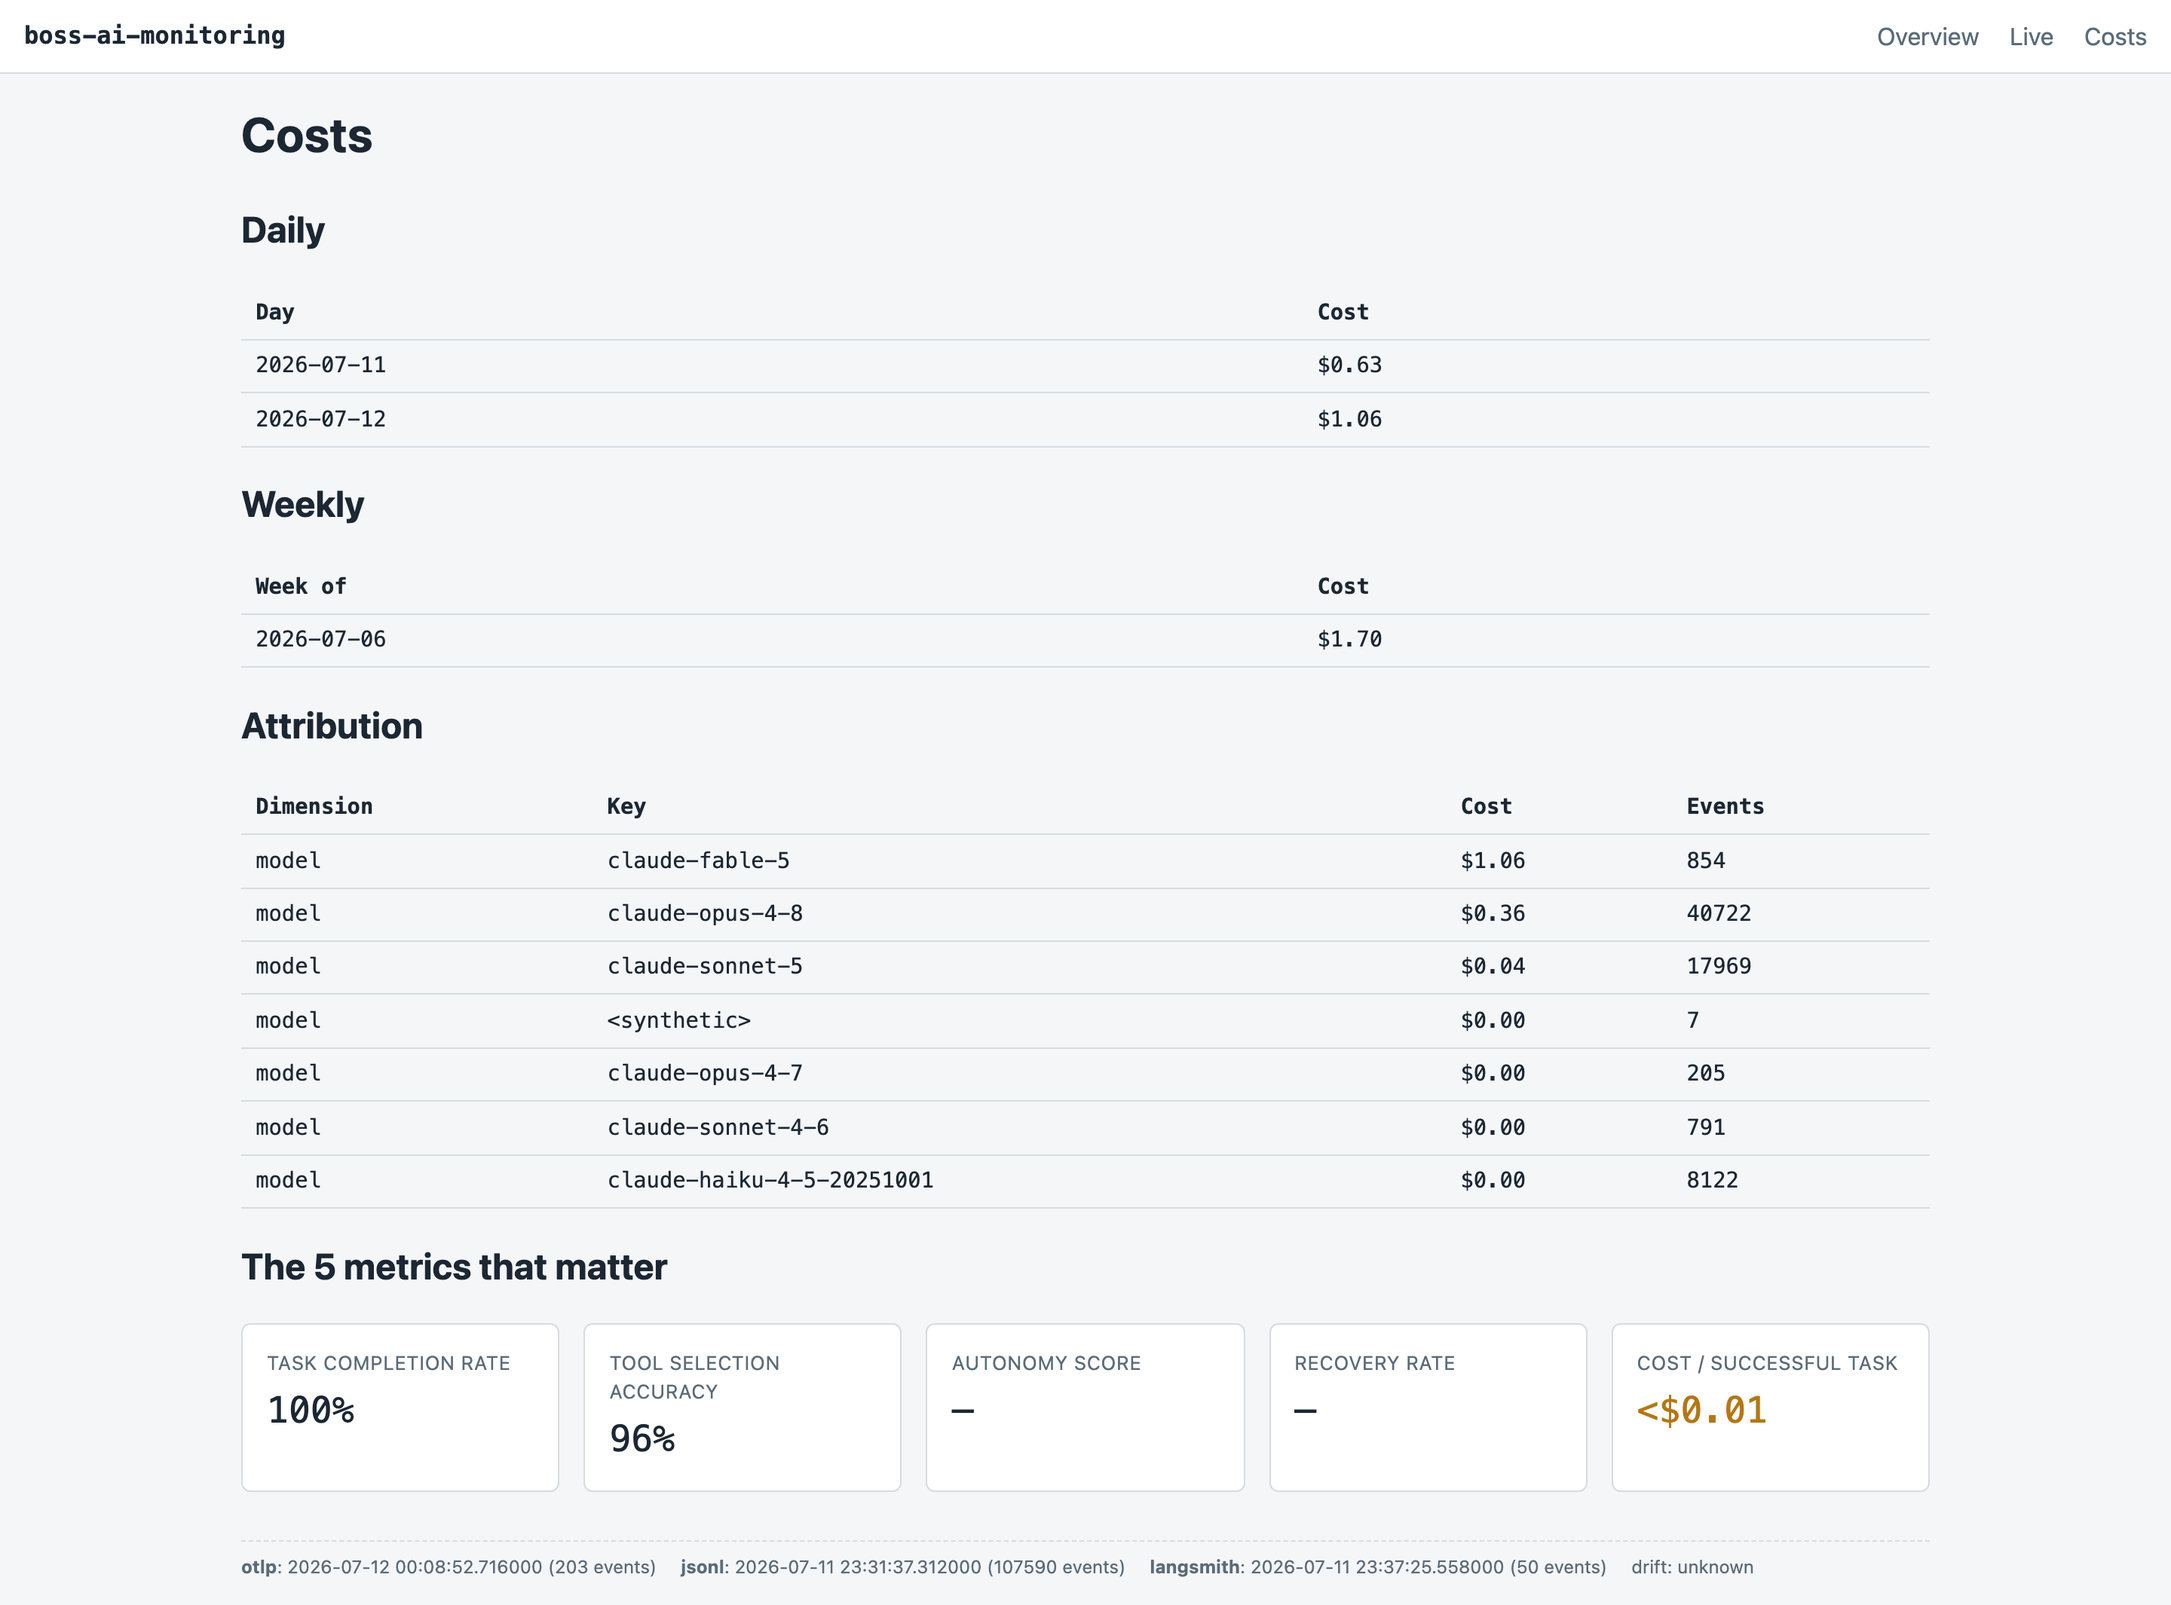
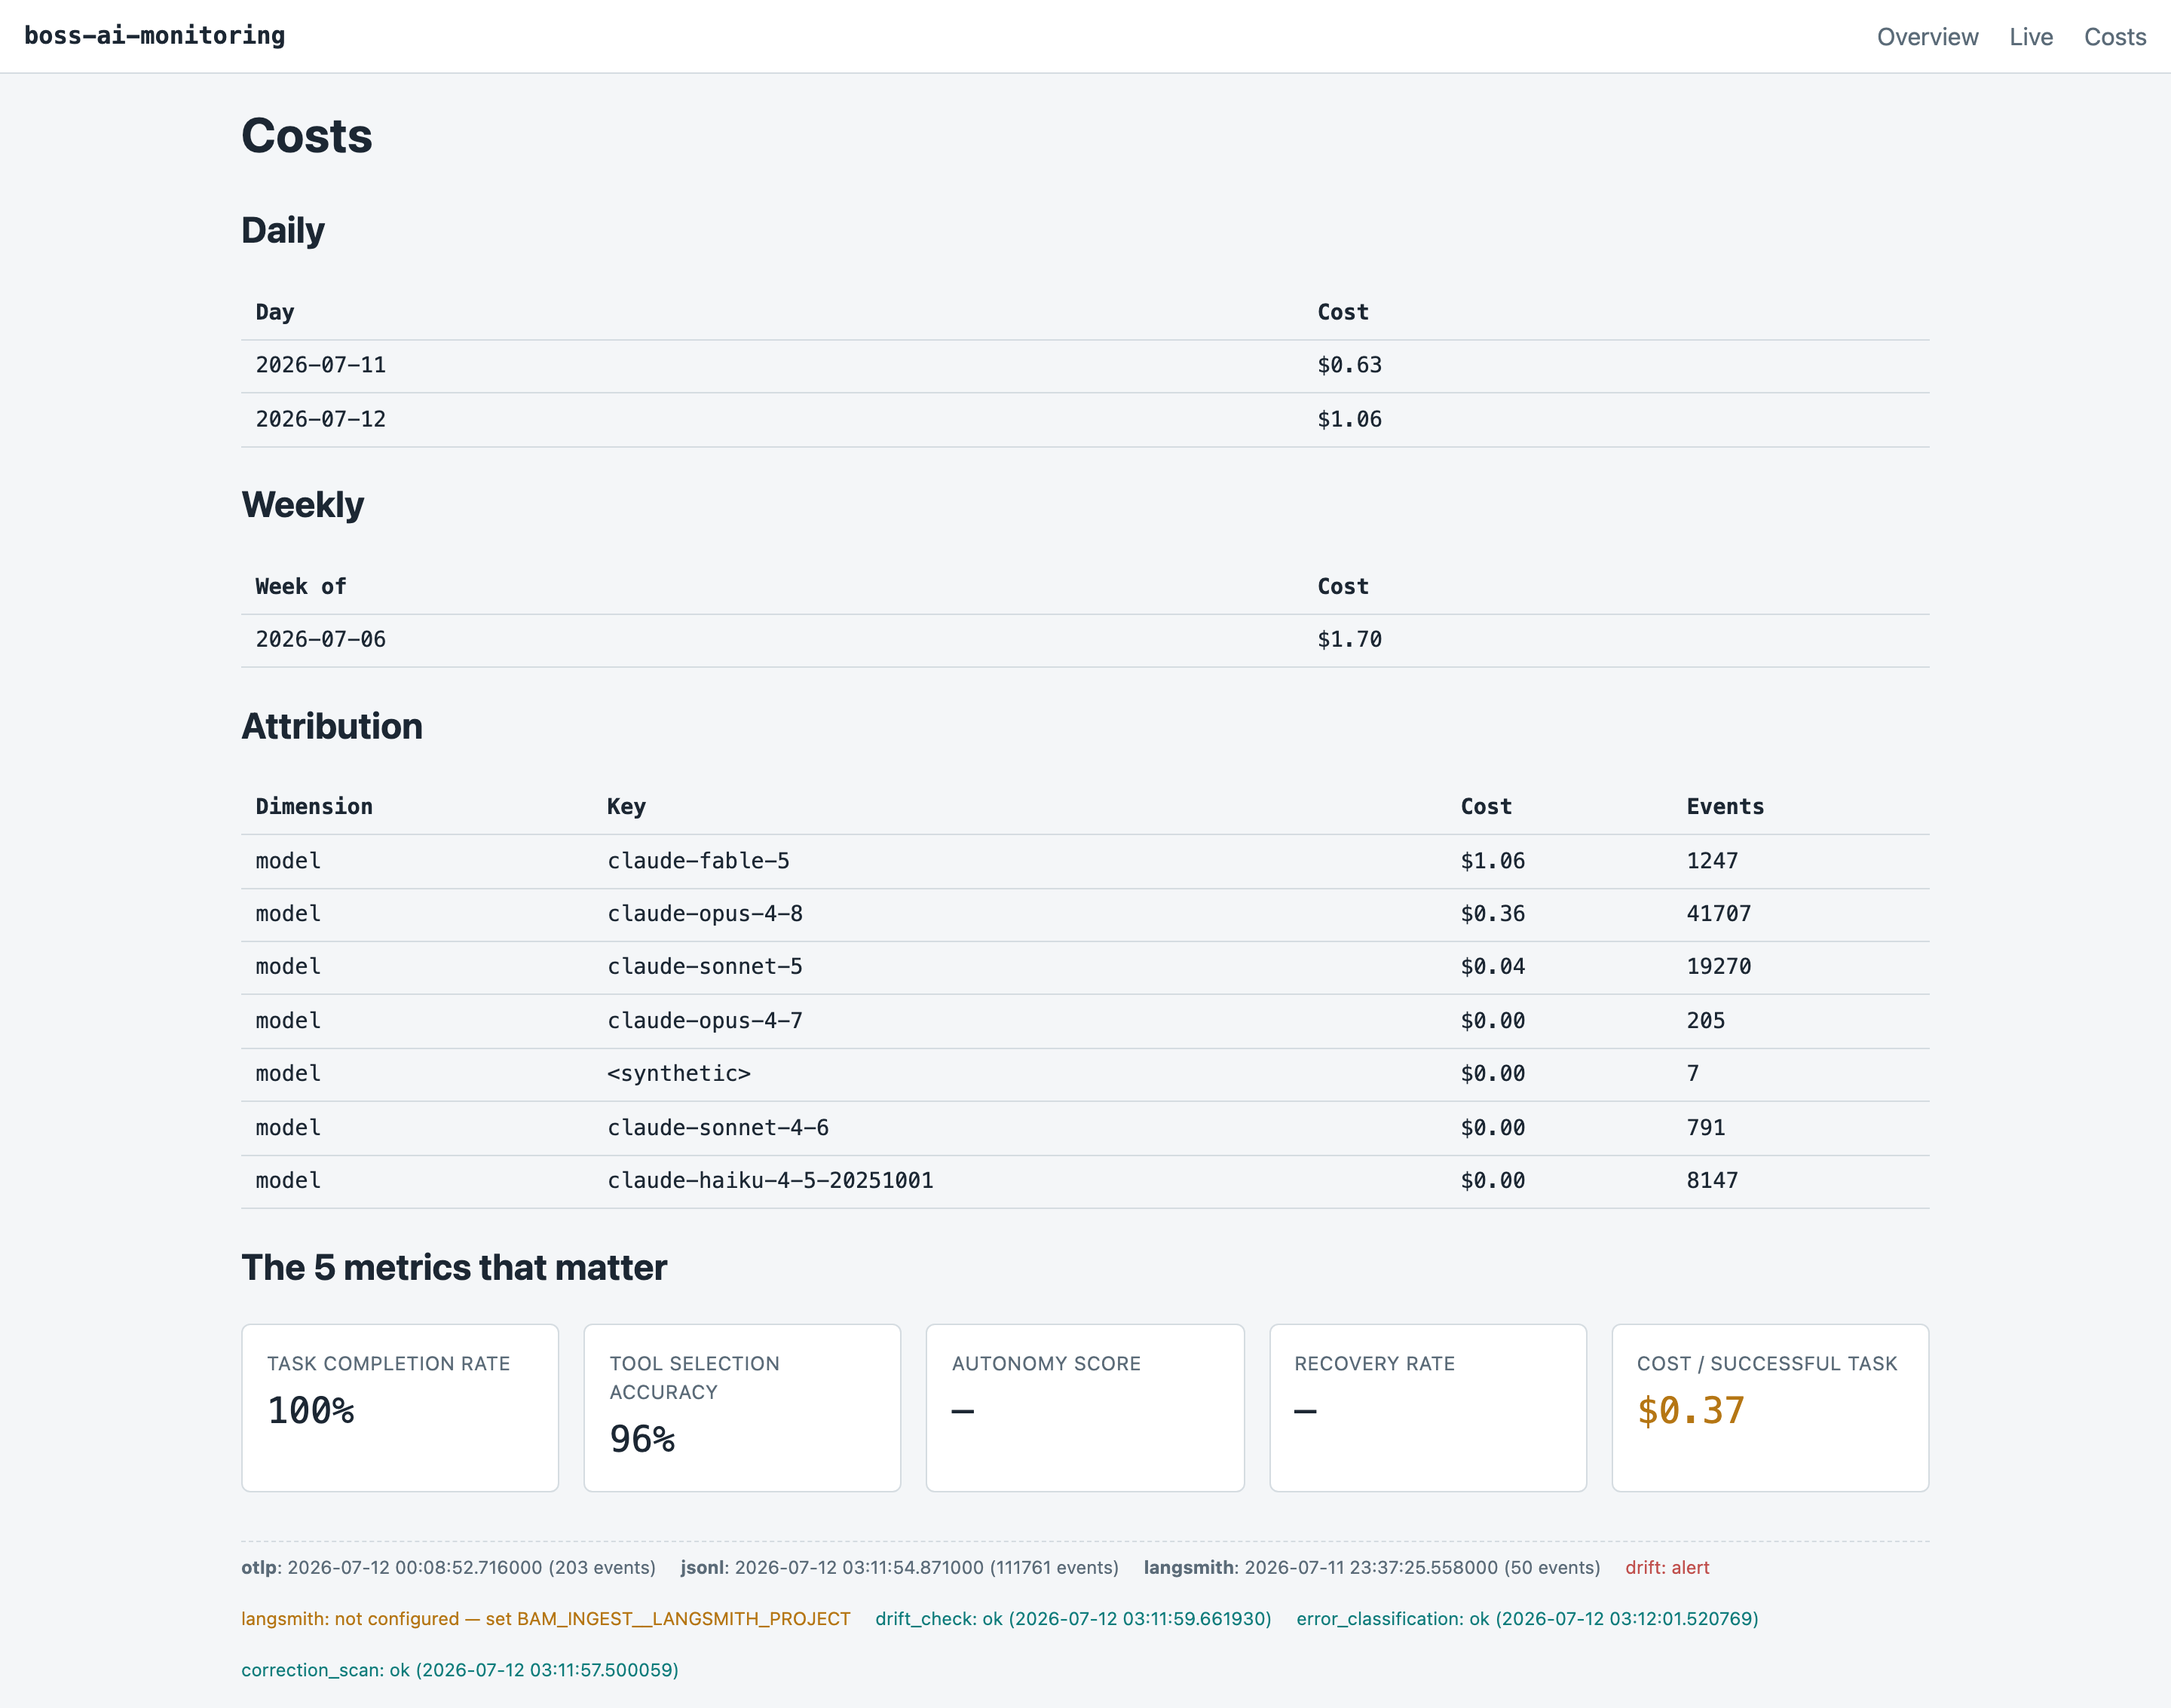
docs(readme): sell the repo on its own evidence
Hero pitch + CI/stack badges + full-width overview shot; 2x2 screenshot
gallery linked to PROOF.md; 'a monitoring tool that never lies to you' as the
through-line (provenance footers, em-dash over invented numbers, <$0.01 over
a false $0.00, the loud missing-config badge). All four screenshots re-shot
live against the real database — the overview now shows the new Infra summary
and the langsmith badge. LangSmith setup section now names
BAM_INGEST__LANGSMITH_PROJECT as the key the poller actually reads.

Also: v_infra_events falls back to server_scope for non-plugin MCP
connections — observed live that they carry no name attribute at all.

Claude-Session: https://claude.ai/code/session_01DXQK4NsiARGxpECdVrLir4

diff --git a/tests/unit/store/test_views.py b/tests/unit/store/test_views.py
@@ -781,6 +781,19 @@ def test_v_infra_events_extracts_dotted_payload_keys(conn: Any, make_event: Make
                     "hook_source": "userSettings",
                 },
             ),
+            # observed live 2026-07-12: a NON-plugin MCP connection carries no name attribute
+            # at all — only server_scope. The view must fall back to it, not render NULL.
+            make_event(
+                "i4",
+                ts=T0 + timedelta(minutes=3),
+                event_type="mcp_server_connection",
+                payload={
+                    "status": "connected",
+                    "transport_type": "claudeai-proxy",
+                    "server_scope": "claudeai",
+                    "is_plugin": False,
+                },
+            ),
         ],
     )
 
@@ -793,4 +806,5 @@ def test_v_infra_events_extracts_dotted_payload_keys(conn: Any, make_event: Make
         ("plugin_loaded", "third-party", None, None, None, None),
         ("mcp_server_connection", "telegram", "connected", "stdio", None, 95),
         ("hook_registered", "PreToolUse", None, None, "userSettings", None),
+        ("mcp_server_connection", "claudeai", "connected", "claudeai-proxy", None, None),
     ]

diff --git a/README.md b/README.md
@@ -1,36 +1,58 @@
 # boss-ai-monitoring
 
-A single-user, single-host observability dashboard for [Claude Code](https://claude.com/claude-code)
-usage: cost, tokens by class, tool success rates, session timelines, and quality signals — pulled
-from three sources into one DuckDB file and served as a fast, no-build-step web UI.
+**See what your Claude Code sessions actually cost — live, from three independent sources that
+cross-check each other.**
 
-> **Status: built.** The application code was produced by the multi-agent build run described in
-> [How this gets built](#how-this-gets-built). The full design — phases, schemas, routes, edge
-> cases, and every decided question — remains in the spec:
-> [`specs/boss-ai-monitoring/boss-ai-monitoring.html`](specs/boss-ai-monitoring/boss-ai-monitoring.html).
+[![CI](https://github.com/bossjones/boss-ai-monitoring/actions/workflows/ci.yml/badge.svg)](https://github.com/bossjones/boss-ai-monitoring/actions/workflows/ci.yml)
+![Python 3.13](https://img.shields.io/badge/python-3.13-blue)
+![uv](https://img.shields.io/badge/packaging-uv-de5fe9)
+![DuckDB](https://img.shields.io/badge/store-DuckDB-fff100)
+![no build step](https://img.shields.io/badge/frontend-htmx%2C%20no%20npm-3d72d7)
 
-## What it does
+![Overview dashboard on real data](docs/img/dashboard/overview.png)
 
-- **Ingests three signal sources** into a canonical `events` table:
-  1. **OTLP telemetry** — Claude Code's native OpenTelemetry export (http/json, port 4318,
-     received directly by the app; no collector).
-  2. **JSONL transcripts** — incremental reads of `~/.claude/projects/**/*.jsonl` (mounted
-     read-only), for backfill and gap-fill. JSONL-derived costs are flagged estimates.
-  3. **LangSmith runs** — cursor-based polling of the LangSmith API (rate-limit aware; degrades
-     gracefully without an API key).
-- **Stores everything in one DuckDB file** — canonical event envelope with a JSON `payload`
-  column, batched idempotent writer, single write connection.
-- **Serves a dashboard** (FastAPI + Jinja2 + htmx + SSE): `/` overview with stat tiles and a
-  14-day cost sparkline, `/live` streaming feed, `/sessions/{id}` per-task timelines with
-  LangSmith deep-links, `/costs` rollups and attribution. Every panel has a JSON twin and a
-  provenance/freshness footer.
-- **Runs trailing quality jobs**: correction-language scan, OTel-vs-JSONL drift self-check, error
-  classification. Deterministic heuristics only — no LLM-judge in v1.
-- **Ships a marimo notebook** (`notebooks/explore.py`) for ad-hoc exploration over a read-only
-  DuckDB connection, and a Docker Compose deployment (ports 8000 + 4318).
+The sessions in that screenshot are the **multi-agent team that built this repo** — the tool
+monitored its own construction. Every image in [`docs/PROOF.md`](docs/PROOF.md) is captured from
+the live app against the real database; the capture script prints `LOOKS EMPTY` and refuses to
+fake a shot rather than render a pretty blank page.
 
-The full design — phases, schemas, routes, edge cases, and every decided question — lives in the
-spec: [`specs/boss-ai-monitoring/boss-ai-monitoring.html`](specs/boss-ai-monitoring/boss-ai-monitoring.html).
+## Why this exists
+
+Claude Code emits telemetry, writes JSONL transcripts, and (optionally) traces to LangSmith — and
+none of those three agree with each other by default. This dashboard lands all three in **one
+DuckDB file** with per-row source lineage, then tells you cost, tokens, tool success rates,
+session timelines, and quality signals — and *where every number came from*.
+
+## A monitoring tool that never lies to you
+
+Most dashboards optimize for looking healthy. This one optimizes for being caught:
+
+- **Provenance on every panel.** Each view carries a footer naming every source, its freshness,
+  and its event count (`otlp · jsonl · langsmith`), plus the drift self-check's latest verdict.
+- **`—` instead of invented numbers.** Metrics with no supporting events render as an em dash,
+  never a fabricated zero. Sub-cent costs render `<$0.01`, never a false `$0.00`.
+- **Missing config is loud.** If the LangSmith poller isn't configured, the footer says so and
+  names the exact env var — no silently-dead ingest source.
+- **A drift job cross-checks OTel against the JSONL transcripts** on a schedule and badges the
+  result on every page.
+- **[`docs/PROOF.md`](docs/PROOF.md)** shows the failure modes *and* their fixes in the same
+  screenshots — including the DuckDB file-lock error and the `bam snapshot` escape hatch.
+
+## What you get
+
+| | |
+|---|---|
+| [![Overview](docs/img/dashboard/overview.png)](docs/PROOF.md#overview-----) | [![Costs](docs/img/dashboard/costs.png)](docs/PROOF.md#costs----costs) |
+| **Overview** — stat tiles, 14-day cost sparkline, infra summary, recent sessions | **Costs** — daily/weekly rollups, per-model attribution, "the 5 metrics that matter" |
+| [![Live](docs/img/dashboard/live.png)](docs/PROOF.md#live----live) | [![Session detail](docs/img/dashboard/session-detail.png)](docs/PROOF.md#session-detail----sessionsid) |
+| **Live** — SSE event feed and active-session cards, no page reloads | **Session detail** — per-task timeline: prompt, duration, cost, tokens, tool ok/fail, LangSmith deep-link |
+
+Under the hood: OTLP http/json received directly on `:4318` (no collector, no gRPC), incremental
+JSONL transcript backfill, cursor-based LangSmith polling, trailing quality jobs
+(correction-language scan, OTel-vs-JSONL drift, error classification — deterministic heuristics,
+no LLM judge), a marimo notebook for ad-hoc SQL, and Docker Compose when you want it. Metrics are
+SQL **views** over one canonical `events` table — new event types need no migrations, and hook /
+plugin / MCP telemetry is queryable via `v_hook_stats` and `v_infra_events`.
 
 ## Quickstart
 
@@ -40,8 +62,7 @@ uv run bam serve            # then open http://localhost:8000
 ```
 
 `bam serve` runs **one** FastAPI app on **two** binds in a single asyncio loop — the dashboard on
-`:8000` and the OTLP receiver on `:4318`. There is no collector and no gRPC; the app speaks OTLP
-http/json directly.
+`:8000` and the OTLP receiver on `:4318`.
 
 Point Claude Code's telemetry at the receiver (see the sample env file for the full variable set):
 
@@ -101,11 +122,14 @@ the same `(session_id, request_id)`.
 
 Two keys, two jobs. Tracing *in* (Claude Code → LangSmith) uses the LangSmith Claude Code plugin
 (`TRACE_TO_LANGSMITH`, `CC_LANGSMITH_API_KEY`, `CC_LANGSMITH_PROJECT`). Polling *out*
-(LangSmith → dashboard) uses `LANGSMITH_API_KEY`. The poller is cursor-based and rate-limit aware,
-and degrades gracefully when no API key is configured — the app still boots and serves.
+(LangSmith → dashboard) uses `LANGSMITH_API_KEY` **and `BAM_INGEST__LANGSMITH_PROJECT`** — the
+poller deliberately does not read the ambient `LANGSMITH_PROJECT` (all config flows through
+`config.py`), and both the startup log and the dashboard footer will tell you if you forgot.
+The poller is cursor-based and rate-limit aware, and degrades gracefully when no API key is
+configured — the app still boots and serves.
 
-`CC_LANGSMITH_PROJECT` and `LANGSMITH_PROJECT` must name the **same** project, or you will trace
-into one and read back from another. The
+`CC_LANGSMITH_PROJECT` and `BAM_INGEST__LANGSMITH_PROJECT` must name the **same** project, or you
+will trace into one and read back from another. The
 [`langsmith` CLI](https://github.com/langchain-ai/langsmith-cli) is the read-back check:
 
 ```bash
@@ -167,15 +191,18 @@ read happily while ingest is writing.
 ## Privacy
 
 Content-capture OTel flags (`OTEL_LOG_USER_PROMPTS`, `OTEL_LOG_ASSISTANT_RESPONSES`,
-`OTEL_LOG_TOOL_DETAILS`) stay **off** by default — telemetry is metadata unless you opt in.
-Dashboard and OTLP ports bind localhost; single-user, trusted-network scope; no auth by design.
+`OTEL_LOG_TOOL_DETAILS`) stay **off** by default — telemetry is metadata unless you opt in. A test
+verifies at the wire that Claude Code sends `prompt=<REDACTED>` when they're off. Dashboard and
+OTLP ports bind localhost; single-user, trusted-network scope; no auth by design.
 `~/.claude/projects` is mounted read-only everywhere it is read — locally and in the container.
 
-## How this gets built
+## How this got built
 
-The implementation is executed by a 7-pane multi-agent cmux team driven by
+The implementation was executed by a 7-pane multi-agent cmux team driven by
 [`prompts/boss-ai-monitoring-build-team.md`](prompts/boss-ai-monitoring-build-team.md) — TDD
 red-first, exclusive file ownership per pane, `just check` as the definition of done, local
-commits only (the human pushes after review). See [`prompts/README.md`](prompts/README.md) for the
-prompt lineage and [`CLAUDE.md`](CLAUDE.md) for the conventions any Claude Code session in this
-repo must follow.
+commits only (the human pushes after review). The full design — phases, schemas, routes, edge
+cases, and every decided question — lives in the spec:
+[`specs/boss-ai-monitoring/boss-ai-monitoring.html`](specs/boss-ai-monitoring/boss-ai-monitoring.html).
+See [`prompts/README.md`](prompts/README.md) for the prompt lineage and [`CLAUDE.md`](CLAUDE.md)
+for the conventions any Claude Code session in this repo must follow.
